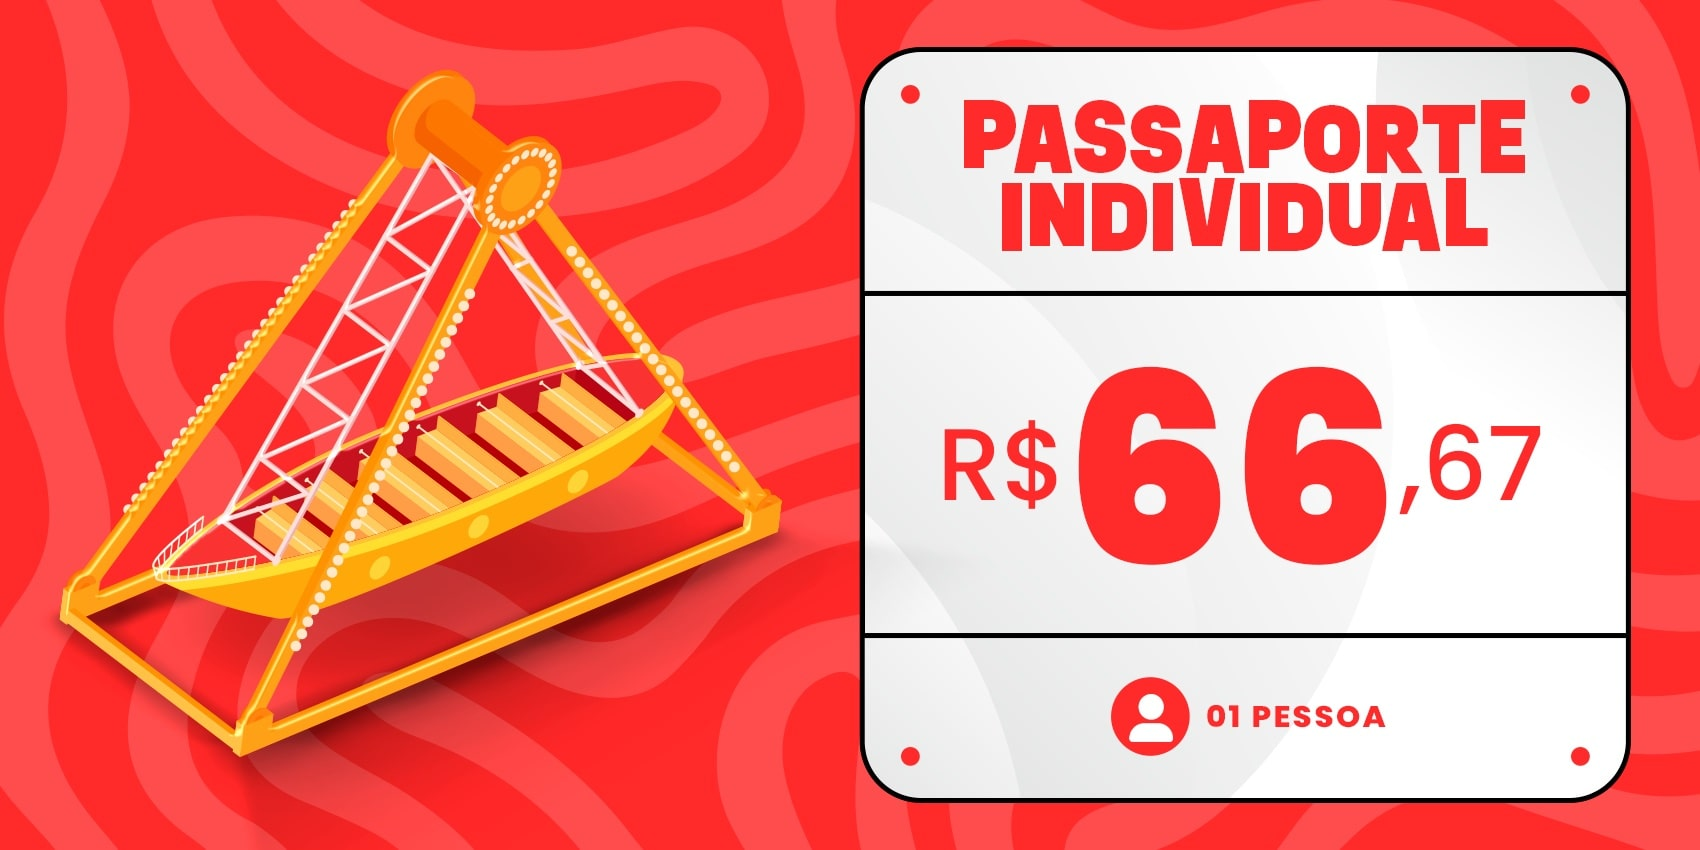
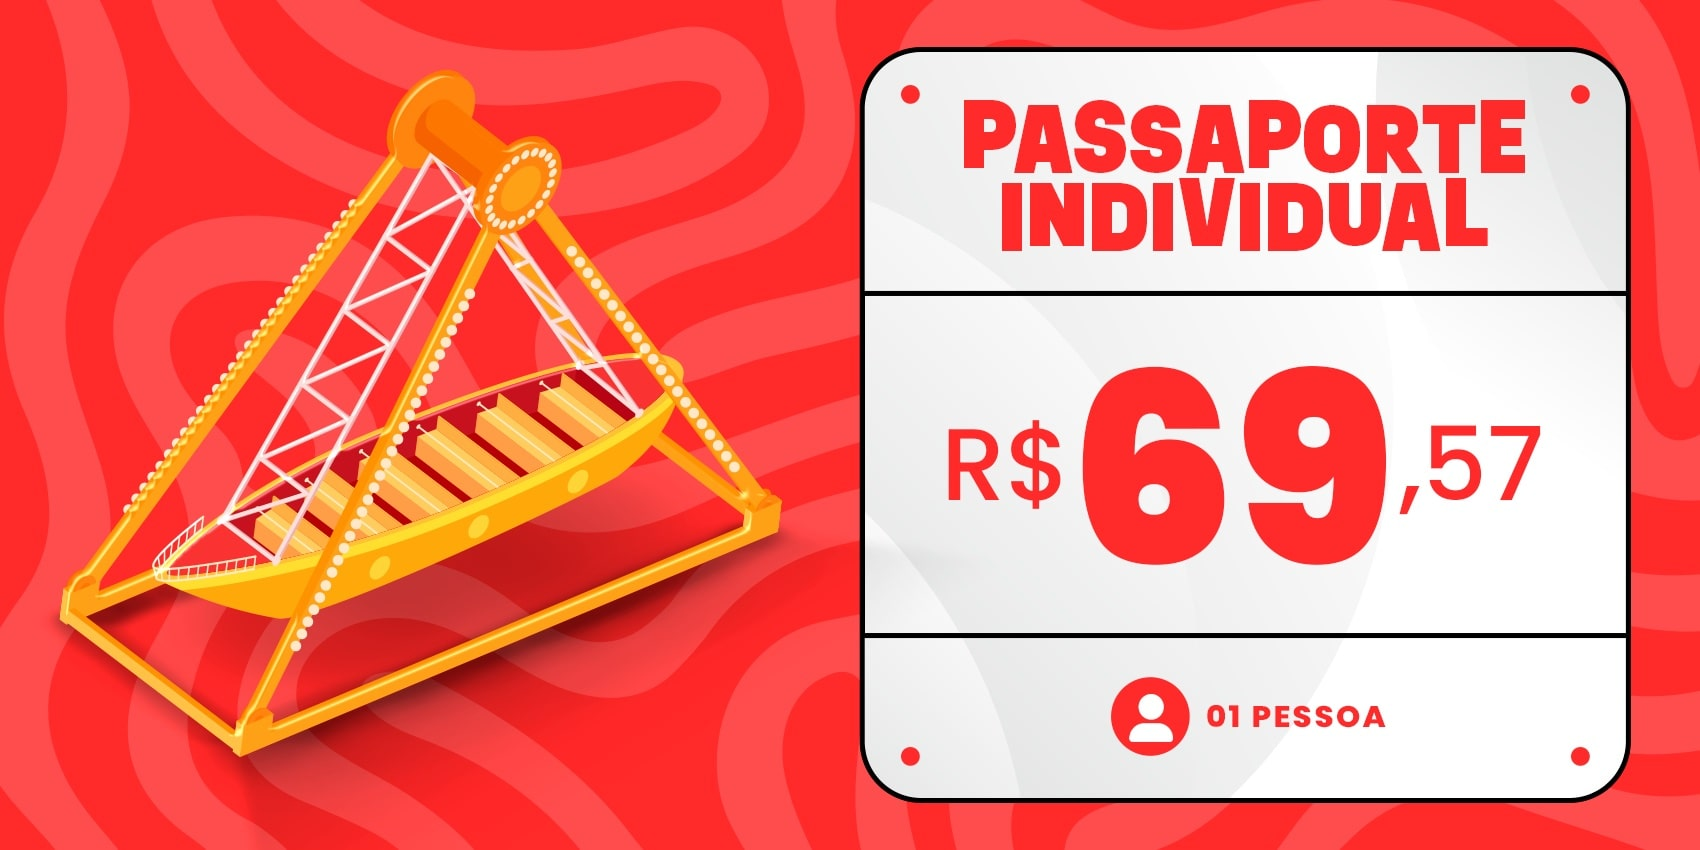
Novos preços

diff --git a/src/components/organisms/Tickets.tsx b/src/components/organisms/Tickets.tsx
@@ -1,7 +1,7 @@
 import Combo360 from '@/public/images/tickets/combo-360.jpg'
 import ComboLove from '@/public/images/tickets/combo-love.jpeg'
 import ComboEncantado from '@/public/images/tickets/combo-encantado.jpg'
-import ComboAntecipado from '@/public/images/combos/combo-antecipado.jpg'
+import ComboAntecipado from '@/public/images/tickets/combo-antecipado.jpg'
 import SuperAntecipado from '@/public/images/tickets/super-antecipado.jpg'
 import ComboEspetacular from '@/public/images/tickets/combo-espetacular.jpg'
 import ComboSuperSegunda from '@/public/images/tickets/combo-super-segunda.jpeg'
@@ -71,9 +71,9 @@ export default function Tickets() {
             <Ticket
               id={7}
               isPassport
-              price={5747}
               quantity={1}
-              reference={5747}
+              price={5997}
+              reference={5997}
               name="Passaporte Antecipado"
               banner={PassaporteAntecipado}
             />
@@ -83,9 +83,9 @@ export default function Tickets() {
             <Ticket
               id={14}
               isPassport
-              price={9772}
+              price={10197}
               quantity={2}
-              reference={5747}
+              reference={5997}
               name="Combo Antecipado"
               banner={ComboAntecipado}
             />
@@ -96,8 +96,8 @@ export default function Tickets() {
               id={17}
               isPassport
               quantity={3}
-              price={13790}
-              reference={5747}
+              price={14397}
+              reference={5997}
               name="Super Antecipado"
               banner={SuperAntecipado}
             />
@@ -112,8 +112,8 @@ export default function Tickets() {
               id={2}
               isPassport
               quantity={1}
-              price={6667}
-              reference={6667}
+              price={6957}
+              reference={6957}
               name="Passaporte Individual"
               banner={PassaporteIndividual}
             />
@@ -123,8 +123,8 @@ export default function Tickets() {
               id={3}
               isPassport
               quantity={2}
-              price={12762}
-              reference={5797}
+              price={13397}
+              reference={5997}
               name="Combo Encantado"
               banner={ComboEncantado}
             />
@@ -134,8 +134,8 @@ export default function Tickets() {
               id={4}
               isPassport
               quantity={3}
-              price={17592}
-              reference={6667}
+              price={18397}
+              reference={6957}
               name="Combo Espetacular"
               banner={ComboEspetacular}
             />
@@ -145,8 +145,8 @@ export default function Tickets() {
               id={18}
               isPassport
               quantity={4}
-              price={19543}
-              reference={6667}
+              price={20397}
+              reference={6957}
               name="Combo 360"
               banner={Combo360}
             />
